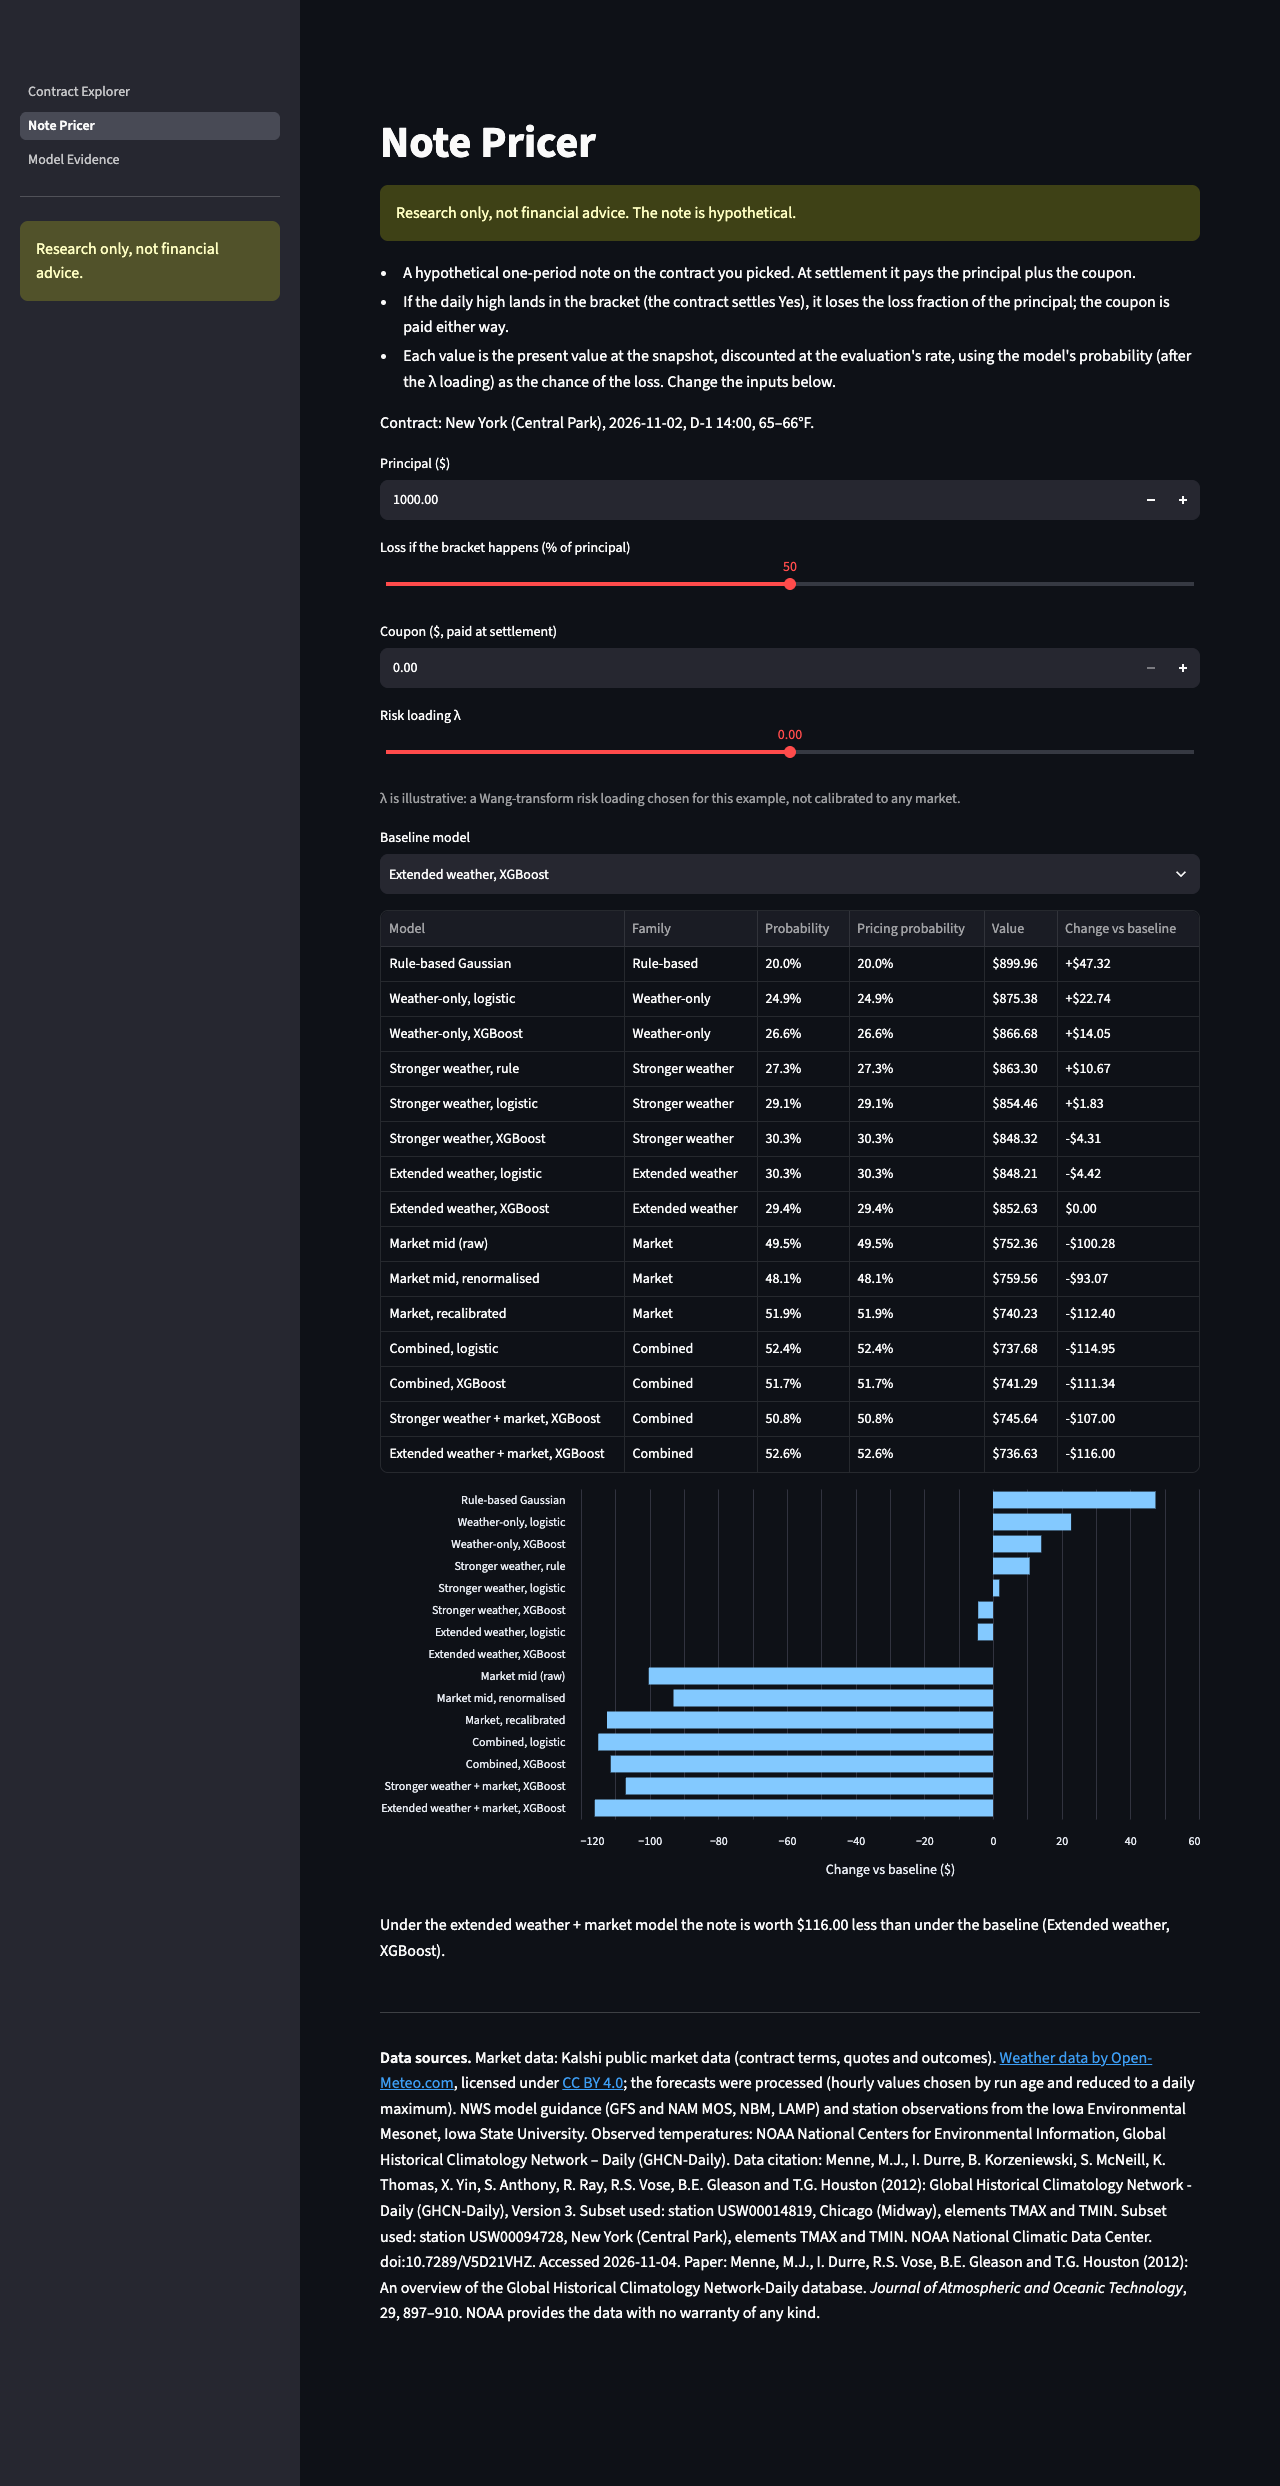
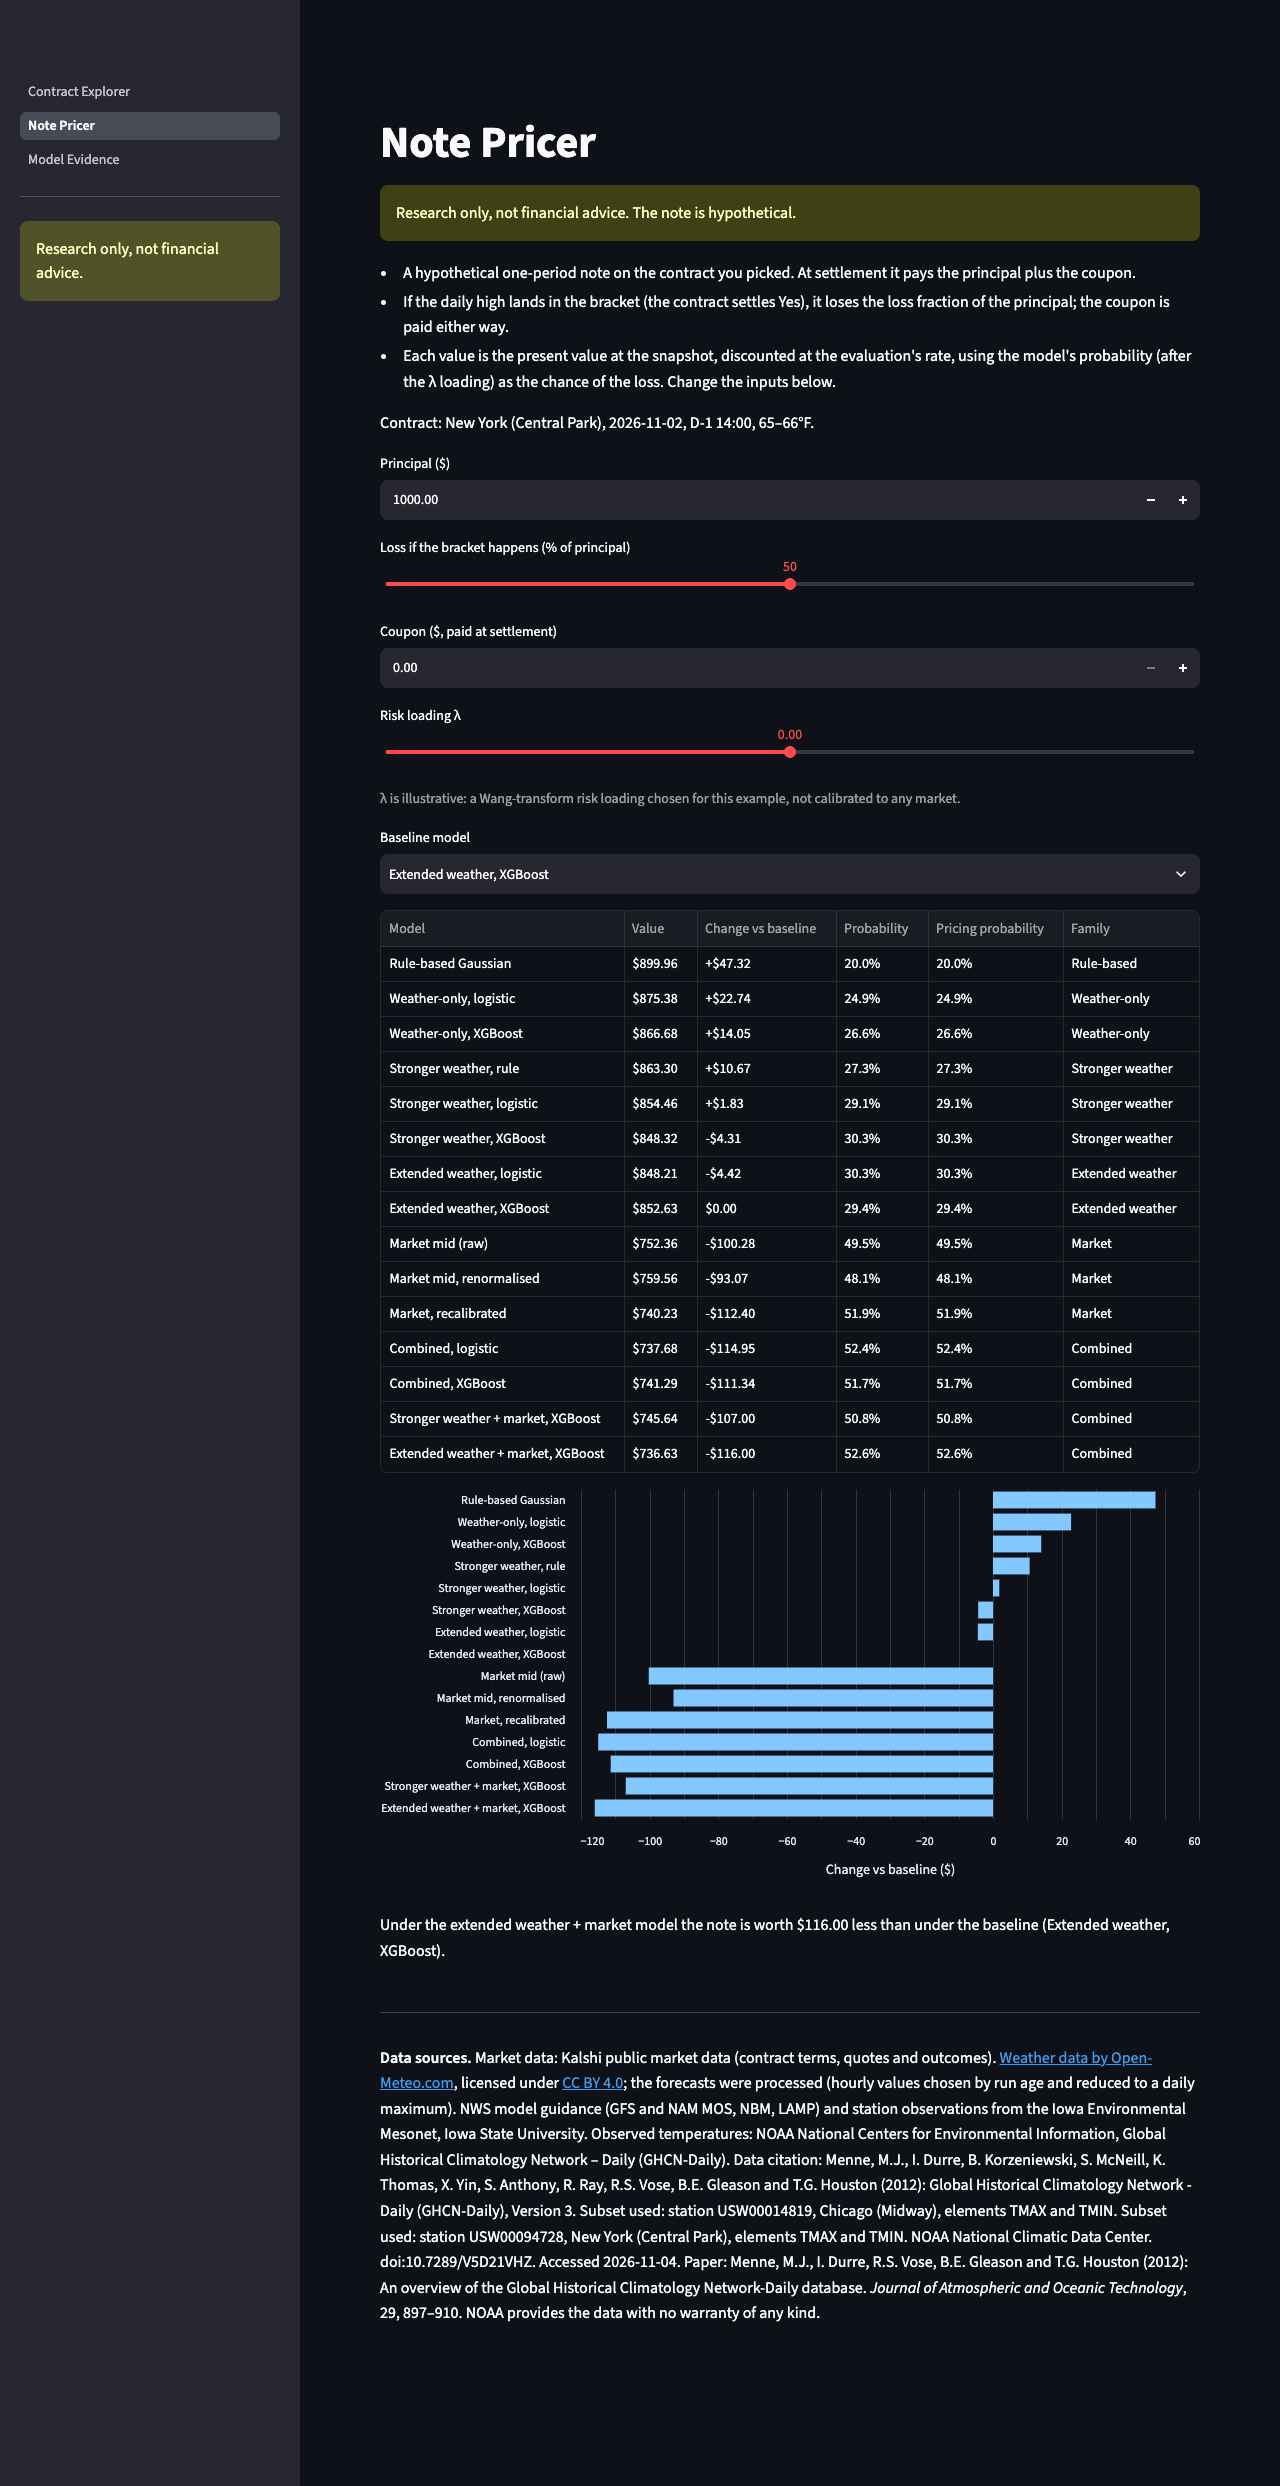
docs: add the editable install step and retake the screenshots
Also notes that Kalshi listed Chicago's 2024-02-28 twice, which is why the quality report counts 1,402 events on 1,401 city-days.

Changed region(s): [[0.5, 0.3717, 0.625, 0.5885], [0.6562, 0.3717, 0.8125, 0.5885], [0.8438, 0.3717, 0.9062, 0.5885]]

diff --git a/README.md b/README.md
@@ -64,16 +64,20 @@ Python 3.12 (the version the app artifacts were built with). From the repo root:
 python3.12 -m venv .venv
 source .venv/bin/activate
 pip install -r requirements-dev.txt
+pip install -e . --no-deps
 ```
 
 If `python3.12` is not on the PATH, use the full path to a Python 3.12, for example
 Homebrew's `/opt/homebrew/opt/python@3.12/bin/python3.12 -m venv .venv`. All later
 commands assume the virtual environment is active.
 
-`requirements.txt` pins the exact package versions of the artifacts and installs the
-package itself (`.`), so run it from the repo root. For development, an editable install
-works too: `pip install -e '.[dev,app]'`; it does not pin the versions the artifacts
-were built with.
+`requirements.txt` pins the exact package versions of the artifacts and installs a copy of
+the package itself (`.`), so run it from the repo root. That copy is enough for the app and
+the tests. The last command replaces it with an editable install, which the command-line
+tool needs: it keeps `data/`, `results/` and `app_artifacts/` beside `src/`, so it stops
+with a message when it runs from a copy. A copy also goes out of date when the source
+changes. `pip install -e '.[dev,app]'` alone works too, but it does not pin the versions the
+artifacts were built with.
 
 ## Environment and API keys
 
@@ -541,8 +545,12 @@ from 0.016 to 0.009.
 
 Chicago settles at a different station and had no part in designing the models. Its data
 is as clean as New York's: the bracket logic reproduces all 8,411 results, and NOAA gives
-the same outcome on every contract. On the same kind of split (test period 2025-09-15 to
-2026-11-02):
+the same outcome on every contract. One training day has two events: Kalshi listed
+2024-02-28 as `HIGHCHI-24FEB28`, with brackets from 24 to 31°F against a high of 53°F, and
+again as `HIGHCHI-2-24FEB28`. Both are kept, so that city-day has 12 contracts, and the
+quality report counts 1,402 events on 1,401 city-days. The split and the bootstrap group
+by city-day, so they treat the two events as one. On the same kind of split (test period
+2025-09-15 to 2026-11-02):
 
 | Model | Brier | Log loss | ECE |
 |---|---|---|---|
